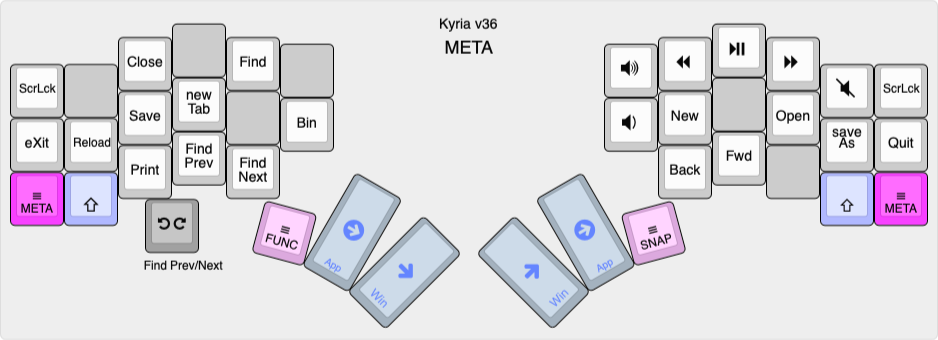
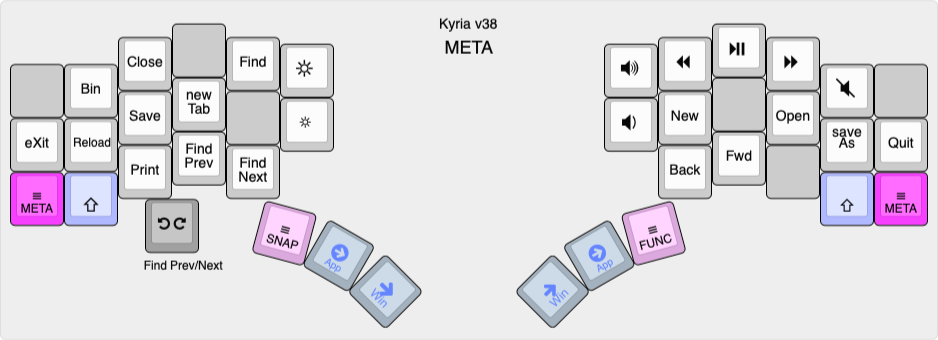
Updated docs for v38

diff --git a/kyria-rsthd-prime/README.md b/kyria-rsthd-prime/README.md
@@ -1,6 +1,6 @@
-# Kyria RSTHD/Prime v37
+# Kyria RSTHD/Prime v38
 
-This is the keymap for my Kyria keyboard from [splitkb.com](https://splitkb.com). The alpha layout was based on [RSTHD](https://xsznix.wordpress.com/2016/05/16/introducing-the-rsthd-layout/) but is now heavily modified. It's optimized for minimized usage of the inner index column. Features in the code include runtime switching between Mac/Windows/Linux shortcuts and a custom implementation of "comborolls".
+This is the keymap for my Kyria keyboard from [splitkb.com](https://splitkb.com). The alpha layout was based on [RSTHD](https://xsznix.wordpress.com/2016/05/16/introducing-the-rsthd-layout/) but is now heavily modified. The layout is optimized for minimum usage of the inner index column. Features in the code include runtime switching between Mac/Windows/Linux shortcuts and a custom implementation of "comborolls".
 
 <!--ts-->
    * [Overview](#overview)
@@ -33,11 +33,11 @@ The alphabetic layout in this keymap was originally based on [RSTHD](https://xsz
 
 When I originally started making changes to RSTHD, I called it RSTHD'. The `'`, pronounced "prime", is [used in maths](https://en.wikipedia.org/wiki/Prime_(symbol)#Use_in_mathematics,_statistics,_and_science) to indicate a derivative of the named thing. I think the layout still retains its RSTHD DNA despite all the changes. I figure calling it *RSTHD/Prime* acknowledges its origin while still indicating that it's different.
 
-The code is known to compile for and work on a v1 Kyria with a 32kB Pro Micro controller, and a v3 Kyria with a Liatris controller. There are some lines at the top of rules.mk that will need to be un/commented accordingly.
+The code is known to compile for and work on a rev1 Kyria with a 32kB Pro Micro controller and a rev3 Kyria with a Liatris controller. There are some lines at the top of rules.mk that will need to be un/commented accordingly.
 
 See also [Kyria Build Notes](docs/kyria-build-notes.md).
 
-**As of late 2023, I'm not maintaining this documentation any more. It's too much work to be frank. It serves as a general guide, but for actual info please refer to the source. See also the [common](../common/) folder.**
+**As of late 2023, I'm not maintaining this documentation very often. It's too much work to be frank. It serves as a general guide, but for actual info please refer to the source. See also the [common](../common/) folder.**
 
 ### Goals
 
@@ -51,7 +51,7 @@ Typing speed and reducing the number of keys on the keyboard are not important g
 
 ### Keyboard configuration
 
-My Kyria uses all 6 columns on each hand. However, the lower inner column keys are absent. There are three thumb keys on each side. The left side has an OLED and an encoder, while the right side has neither. The encoder seems like a great idea but in practice I find that I only use it for adjusting the lighting, as for all other functions it's quicker to just use keys; I could certainly live without it. The OLED, on the other hand (heh), is awesome to have.
+My Kyria uses all 6 columns on each hand. However, the lower inner column keys are absent. There are three thumb keys on each side. The left side has an OLED. Either side can take an encoder, but the right side is slightly more functional. (The encoder seems like a great idea but in practice I find that I mostly use it for adjusting the lighting, as for other functions it's usually quicker to just use keys; I could certainly live without it.)
 
 ### Features
 
@@ -63,7 +63,7 @@ A set of shortcuts which can be switched at run-time for macOS, Windows, or Linu
 
 #### Comborolls
 
-I have a userspace implementation of combos called "[comboroll](docs/comborolls.md)" to avoid timing issues with QMK's overlapping combos. See `combo_defs.h` for combo definitions and `comboroll.h/c` for the implementation.
+I have a userspace implementation of combos called "[comboroll](docs/comborolls.md)" to avoid timing issues with QMK's overlapping combos. The doc is out of date for the current key layout, but see `combo_defs.h` for combo definitions and `comboroll.h/c` for the implementation.
 
 #### Custom shift keys
 
@@ -83,49 +83,52 @@ Layer switching is done with custom code, so that a. shifted and custom keys can
 
 [KLE link](http://www.keyboard-layout-editor.com/#/gists/a3c533814afd6550258f456b85d1d678)
 
-The alpha layout aims to reduce lateral finger movement on the index finger. In fact the lower key of the inner column has been completely removed in this version. An older version performed very well in an [analyzer](docs/prime-on-the-analyzer.md), with low SFU (same finger utilization) stats and low travel distance.
+The alpha layout aims to reduce lateral finger movement on the index finger. In fact, the lower keys of the inner columns have been removed entirely.
 
-Since then, changes have been made to the layout that nominally give it worse performance, because of the use of [comborolls](docs/comborolls.md). (See [``common/combo_defs.h``](combo_defs.h) for current comborolls).
+An older version of the layout performed very well in an [analyzer](docs/prime-on-the-analyzer.md), with low SFU (same finger utilization) stats and low travel distance. Since then, changes have been made to the layout that nominally give it worse performance, because of the use of [comborolls](docs/comborolls.md). (See [``common/combo_defs.h``](combo_defs.h) for current comborolls). 
 
-From v37 on, E and Space have been swapped relative to their RSTHD positions. This is a common change made - see [RSTHD variants and similar layouts](#rsthd-variants-and-similar-layouts).
-
-Z is accessed as a vertical combo.
-
-Except for Shift, there are no modifiers on the alpha layer. To access them, use the SYMS or EDIT layer, hold the modifier(s) down, then release the layer key. This is a bit like Callum mods except it doesn't use one-shots.
+Some characters can only be accessed with combos or comborolls: Z, J and backslash.
 
 The shift keys are "auto-off":
-- If one is held and another key is pressed, you get the shifted version of the key then shift is turned off. This completely eliminates typos like "THe".
-- If one is tapped, it toggles caps-word.
-- If both are tapped at the same, they toggle caps-lock.
+- If a shift key is held and another key is pressed, you get the shifted version of the key then shift is turned off. This completely eliminates typos like "THe".
+- If a shift key is tapped, it toggles caps-word.
+- If both shift keys are tapped at the same, they toggle caps-lock.
+
+Except for Shift, there are no modifiers on the alpha layer. To access them, hold the SYMS or EDIT layer key, hold the modifier(s) down, then release the layer key. This is a bit like Callum mods except it doesn't use one-shots. This is less inconvenient than it sounds: you can usually roll the layer key with the modifier, and common shortcuts have dedicated keys on other layers anyway.
+
+Since v37, E and Space have swapped hands relative to their RSTHD positions. This seems to be common amongst adopters - see [RSTHD variants and similar layouts](#rsthd-variants-and-similar-layouts). F and M also swapped hands to reduce pinballing off the right index column; while partially effective, I still find it helpful to have F as a comboroll on the left hand to break up words like LIFE.
+
 ## Other layers
 
-There are five more layers, for a total of 6. All are hold-to-activate. The shift keys in these layers are *not* auto-off.
+There are five more layers, for a total of 6. All are hold-to-activate. The shift keys in these layers are *not* auto-off. In v38, the "handedness" of most of these layers was reversed i.e. they were mostly mirror-imaged. 
 
 ### SYMS
 
-Activated by the left thumb.
+Activated by the right thumb.
 
 ![kyria-rsthd-prime-syms](docs/images/kyria-rsthd-prime-syms.png)
 
-[KLE link](http://www.keyboard-layout-editor.com/#/gists/dc3b38be4f52be86bf6b95b7e53d5c14)
+[KLE link](http://www.keyboard-layout-editor.com/#/gists/1320c291327964f5a62b71087b0907d4)
 
-Unshifted, this layer contains the rest of the punctuation characters. I've arranged them so that many common (for me) two-letter sequences can be typed with an inward roll. For example: `{% %} <% %> </ /> => -> ~/`. Additional sequences such as `<?` `?>`  `!=` `);` are accessed with comborolls, to avoid flipping between the alpha and syms layers.
+Numbers and punctuation are combined on one layer. Numbers are along the home row and punctuation is mostly arranged on the left hand. If only one character shown, it is output regardless of Shift.
 
-The ten digits are accessed with Shift, akin to [Programmer Dvorak](https://www.kaufmann.no/roland/dvorak/), but arranged in a 3x3 numpad-like grid.
+The punctuation is arranged so that common (for me) two-letter sequences are an inward roll: `{% %} </ /> => -> ()`. Outward rolls include `/= !=`. The characters `-` and `!` are duplicated from the base layer for this reason. Additional sequences such as `/* */ ); ~/` are accessed with comborolls that activate if shift is held.
 
-Cut, copy and paste are chorded on the left hand top row.
+Cut, copy and paste shortcuts are along the right hand top row.
+
+This layer works much better than pre-v38 versions that used a numpad layout in "Programmer Dvorak" style (numbers accessed with shift).
 
 ### EDIT
 
-Activated by the right thumb.
+Activated by the left thumb.
 
 ![kyria-rsthd-prime-edit](docs/images/kyria-rsthd-prime-edit.png)
 
-[KLE link](http://www.keyboard-layout-editor.com/#/gists/6230f2d0797ecb43440c52d75b66d17e)
+[KLE link](http://www.keyboard-layout-editor.com/#/gists/34224a80a381a5350f2e8841d8d23ab5)
 
-This layer extends the idea of platform-independent shortcuts to a complete layer. The navigation keys on the left have the standard cursor keys, home, end and page up/down.
+This layer extends the idea of platform-independent shortcuts to a complete layer. The right hand has the standard cursor keys, home/end and page up/down.
 
-Modifiers are on the right hand. If one of the standard modifiers (Shift, Ctrl, Alt, Gui) is held, the emitted code is just the normal modifier + keycode. The special modifiers on the home row act as follows:
+Modifiers are on the left hand. If one of the standard modifiers (Shift, Ctrl, Alt, Gui) is held, the emitted code is that modifier + keycode. The special modifiers on the home row act as follows:
 
 - **Delete** makes the action delete instead of moving.
 - **More** makes the key do "more" : left and right move a word left or right; home and end move to the start and end of a paragraph; page up/down move to the start and end of the document. Up and down are an exception: these activate mouse wheel scrolling.
@@ -134,78 +137,72 @@ Modifiers are on the right hand. If one of the standard modifiers (Shift, Ctrl, 
 
 All actions have auto-repeat. You can change the special modifiers while holding down a navigation key and the action changes accordingly.
 
-Cut, copy and paste are chorded on the right hand top row. There are various shortcut keys for desktop navigation scattered around the edges.
+Cut, copy and paste shortcuts are along the left hand top row. Shortcuts for window and desktop navigation are scattered around the edges.
 
 ### META
 Activated by either pinky.
 
 ![kyria-rsthd-prime-meta](docs/images/kyria-rsthd-prime-meta.png)
 
-[KLE link](http://www.keyboard-layout-editor.com/#/gists/c14a96b4c943087403409185a0aecb43)
+[KLE link](http://www.keyboard-layout-editor.com/#/gists/6df4436f4d7d0af194867ecd1bb84b75)
 
-This layer contains common shortcut keys. They are mostly arranged according to the letter used in the Mac/Windows shortcut. For example, the S key invokes Save (Cmd-S on Mac, Ctrl-S on Windows). However, the mapping is not always that straightforward (e.g. Cmd-Q on Mac and Alt-F4 on Windows), hence the need for a dedicated layer.
+This layer contains common shortcuts, mostly arranged according to the letter used in the Mac/Windows shortcut. For example, the S key invokes Save (Cmd-S on Mac, Ctrl-S on Windows). However, the mapping is not always that straightforward (e.g. Cmd-Q on Mac and Alt-F4 on Windows), hence the use of a dedicated layer.
 
-This layer is also how the FUNC and SNAP layers are accessed.
-
+This layer also contains media control keys and the keys to access the FUNC and SNAP layers.
 
 ### FUNC
 
-Activated by the left thumb from the META layer.
+Activated by the right thumb from the META layer.
 
 ![kyria-rsthd-prime-func](docs/images/kyria-rsthd-prime-func.png)
 
-[KLE link](http://www.keyboard-layout-editor.com/#/gists/90b7e6befd71b9dd87630e490c9719fc)
+[KLE link](http://www.keyboard-layout-editor.com/#/gists/73bd011d1e75479761ce9c6aa4777ea4)
 
-This layer contains function keys on the right hand, arranged roughly the same as the numpad. It also contains the keys that switch between macOS, Windows and Linux shortcuts.
+This layer contains function keys arranged roughly the same as the numbers on the SYMS layer. It also contains the keys that switch between macOS, Windows and Linux shortcuts.
+
+The encoder is used to adjust the OLED brightness and the backlight/per-key LEDs, depending on which modifier is held.
 
 ### SNAP
 
-Activated by the right thumb from the META layer.
+Activated by the left thumb from the META layer.
 
 ![kyria-rsthd-prime-snap](docs/images/kyria-rsthd-prime-snap.png)
 
-[KLE link](http://www.keyboard-layout-editor.com/#/gists/4640c20527f54ef55006fb796960efb5)
+[KLE link](http://www.keyboard-layout-editor.com/#/gists/815a6d29c23fbe01ef7c1ce0e7f0e00b)
 
-So called because of the keys for window snapping, which snap the active window to various locations on the screen. This works on macOS if [Rectangle Pro](https://rectangleapp.com) is running; not working at all on Windows and Linux yet.
+So called because of the keys for window snapping, which snap the active window to various locations on the screen. This works on macOS if [Rectangle Pro](https://rectangleapp.com) is running; it is not working at all on Windows and Linux yet.
 
-The encoder is used to control the backlight LEDs and OLED brightness, depending on which modifier is held.
-
+It also contains shortcuts for screenshots and for window zooming.
 
 ## Backmatter
 
 ### How to build
 
 If you'd like to try the keymap out, here's one way:
-
 ```
 cd /path/to/workingdir
 git clone https://github.com/frogm0uth/keyboard-firmware.git
 ```
-
 Assuming you already have QMK set up using the documented method:
-
 ```
 cd ~qmk_firmware/keyboards/splitkb/kyria/keymaps
 ln -s /path/to/workingdir/keyboard-firmware/kyria-rsthd-prime .
 ```
-
 To compile for a rev1 board with a Pro Micro controller:
-
 ```
 qmk compile -kb splitkb/kyria/rev1 -km kyria-rsthd-prime
 ```
 To compile for a rev3 board with a Liatris controller:
-
 ```
 qmk compile -e CONVERT_TO=liatris -kb splitkb/kyria/rev3 -km kyria-rsthd-prime
 ```
 
 ### RSTHD variants and similar layouts
-- [T-34](https://www.jonashietala.se/blog/2021/06/03/the-t-34-keyboard-layout/) (swaps E and space)
-- [New layout for lateral movement haters](https://www.reddit.com/r/KeyboardLayouts/comments/mnumbs/new_layout_for_lateral_movement_haters/) (Some similarities to this layout)
 - [RSTHD today](https://xsznix.wordpress.com/2021/01/13/rsthd-today/) (Latest layout generated by keygen with revised scoring and different corpus)
-- [andrewjrae/kyria-keymap](https://github.com/andrewjrae/kyria-keymap) (Swaps E and Space)
-- [johnm/keymap.c](https://gist.github.com/johnm/e3c129b20bbcae97601e547a7dd9fa0a) (Mirrors the complete alpha block, and some other tweaks)
+- [New layout for lateral movement haters](https://www.reddit.com/r/KeyboardLayouts/comments/mnumbs/new_layout_for_lateral_movement_haters/) (Some similarities to this layout)
+- [T-34](https://www.jonashietala.se/blog/2021/06/03/the-t-34-keyboard-layout/) (Based on RSTHD, swaps E and space)
+- [andrewjrae/kyria-keymap](https://github.com/andrewjrae/kyria-keymap) (Based on RSTHD, swaps E and space)
+- [johnm/keymap.c](https://gist.github.com/johnm/e3c129b20bbcae97601e547a7dd9fa0a) (Based on RSTHD, mirrors the complete alpha block but not the thumbs)
 
 ### Relevant articles and resources
 
@@ -215,11 +212,9 @@ qmk compile -e CONVERT_TO=liatris -kb splitkb/kyria/rev3 -km kyria-rsthd-prime
 ### Acknowledgments
 
 Table of contents created by [gh-md-toc](https://github.com/ekalinin/github-markdown-toc). To update, run
-
 ```
 /path/to/gh-md-toc --insert README.md
 ```
-
 Much inspiration came from the residents of the [splitkb discord server](https://splitkb.com/discord).
 
 Thanks to the author of [RSTHD](https://xsznix.wordpress.com/2016/05/16/introducing-the-rsthd-layout/) for the great layout.

diff --git a/kyria-rsthd-prime/docs/kyria-build-notes.md b/kyria-rsthd-prime/docs/kyria-build-notes.md
@@ -4,20 +4,20 @@ The Kyria is a great kit. Here are some things I thought worth writing down.
 
 ## v1 vs v3
 
-The most obvious difference between v1 and v3 is that the latter has per-key RGB. This turned out to be much less interesting that I expected, as I was never able to find interesting keycaps with shine-through legends. (By "interesting", I mean non-QWERTY.)
+The most obvious difference between v1 and v3 is that the latter has per-key RGB. This turned out to be less interesting than I expected, as I wasn't able to find interesting keycaps with shine-through legends. (By "interesting", I mean non-QWERTY.)
 
-If only keyboardio made their [Model 100 Linear A keycaps](https://shop.keyboard.io/products/linear-a-keycaps-m100) in a version with standard MX size. (Yes they do have an XDA set, but 1. they're XDA and 2. they aren't shinethrough.)
+If only keyboardio made their [Model 100 Linear A keycaps](https://shop.keyboard.io/products/linear-a-keycaps-m100) in a version with standard MX size. (Yes they do have an XDA set, but they aren't shinethrough.)
 
 However, there are a lot of other differences.
 
 ### v1 has that v3 doesn't
 
-- breakout pins for all rows and columns
+- Breakout pins for all rows and columns
 - 8 columns in the key matrix (vs 7)
 - 2U thumb keys as an option
-- more backlight LEDs (10 vs 6)
-- flippable PCB
-- break-off outer pinky column 
+- More backlight LEDs (10 vs 6)
+- Flippable PCB
+- Break-off outer pinky column 
 
 ### v3 has that v1 doesn't
 
@@ -27,7 +27,7 @@ However, there are a lot of other differences.
 
 ## Case hardware
 
-If you order a case using the Composer, you will have the [Aurora Low Profile Case Hardware Kit](https://splitkb.com/collections/keyboard-parts/products/aurora-low-profile-case-hardware-kit) added to your order. This is kinda wasteful as it has the parts for any keyboard in the Aurora series, so you get a lot of parts that you don't actually need. Also, the standoffs for the OLED covers are not long enough if you socket the controllers.
+If you order a case using the Composer, you will have the [Aurora Low Profile Case Hardware Kit](https://splitkb.com/collections/keyboard-parts/products/aurora-low-profile-case-hardware-kit) added to your order. This feels kinda wasteful as it has the parts for any keyboard in the Aurora series, so you get a lot of parts that you don't actually need. Also, the standoffs for the OLED covers are not long enough if you socket the controllers.
 
 This is what you actually need for a Kyria with acrylic base, FR4 plate, and MX switches:
 
@@ -37,9 +37,9 @@ This is what you actually need for a Kyria with acrylic base, FR4 plate, and MX 
 
 (\*) this is what I measured as necessary with an OLED installed with the sockets and headers I use on the controller. YMMV.
 
-I priced out an order on ebay: the parts for 1 keyboard worked out at about EUR8 shipped from China. On the plus side, you also get usable standoffs for the OLED covers and you won't have to use pan-head screws. On the down side, shipping takes a month.
+I priced out an order on ebay: the parts for 1 keyboard worked out at about EUR8 shipped from China, about the same as from splitkb. On the plus side, you also get usable standoffs for the OLED covers and you won't have to use pan-head screws. On the down side, shipping takes a month.
 
-For 5 keyboards it works out at about EUR12, so definitely an advantage if building two or more.
+For 5 keyboards it works out at about EUR12, so only really an advantage if building two or more.
 
 ## Soldering LEDs
 
@@ -47,7 +47,7 @@ The first time I soldered SMD LEDs, I really stuffed up one side (it was a Corne
 
 Here's the secret: flux.
 
-Just get a little tub of rosin flux paste and a small brush to apply it. To clean it off, use 100% IPA and a small paintbrush cropped short (so the bristles are stiff). Then rinse with enough IPA to actually remove the dissolved flux residues off the board.
+Just get a little tub of rosin flux paste and a small brush to apply it. To clean it off, use 100% IPA and a small paintbrush cropped short (so the bristles are stiff). Then rinse with enough IPA to remove the dissolved flux residues off the board.
 
 Even though solder has flux in it, using rosin flux paste makes the solder wet onto the parts much more quickly.
 
